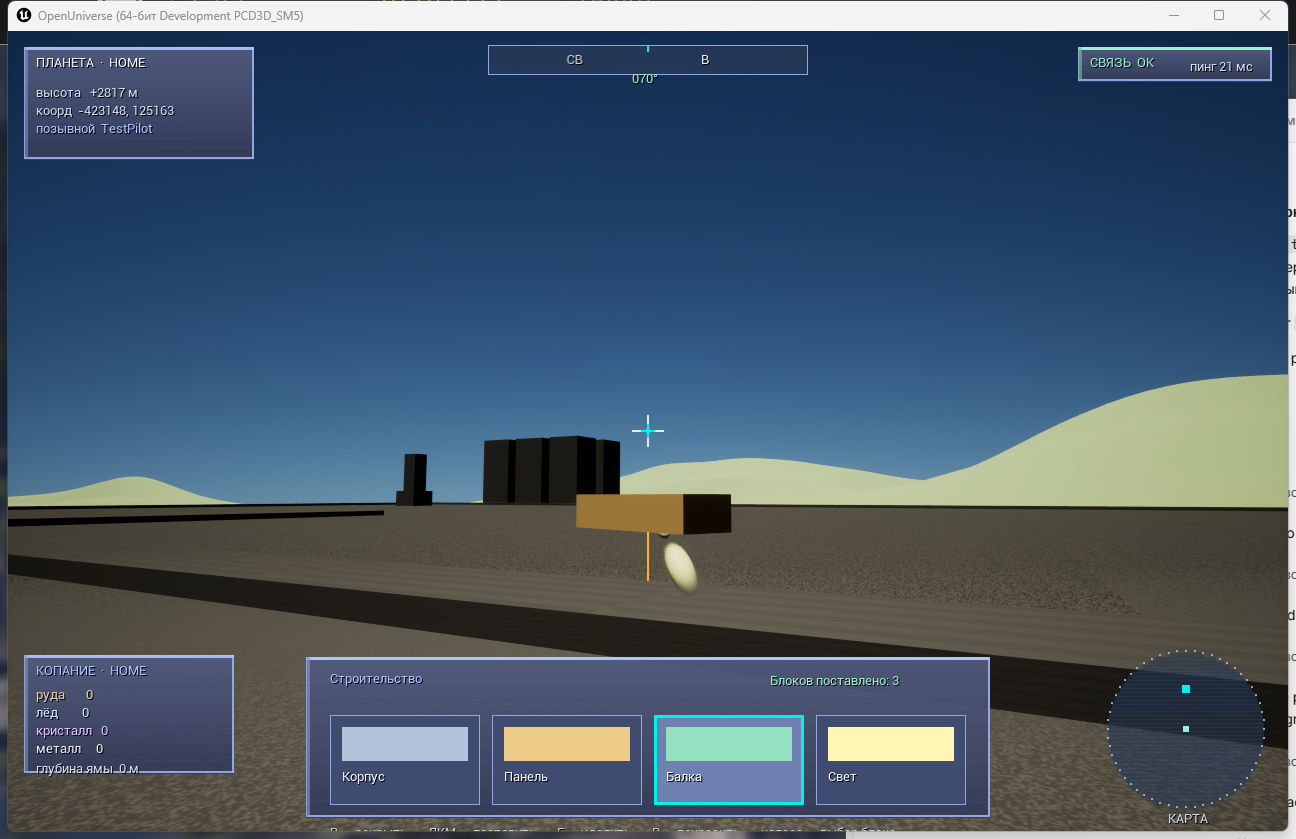
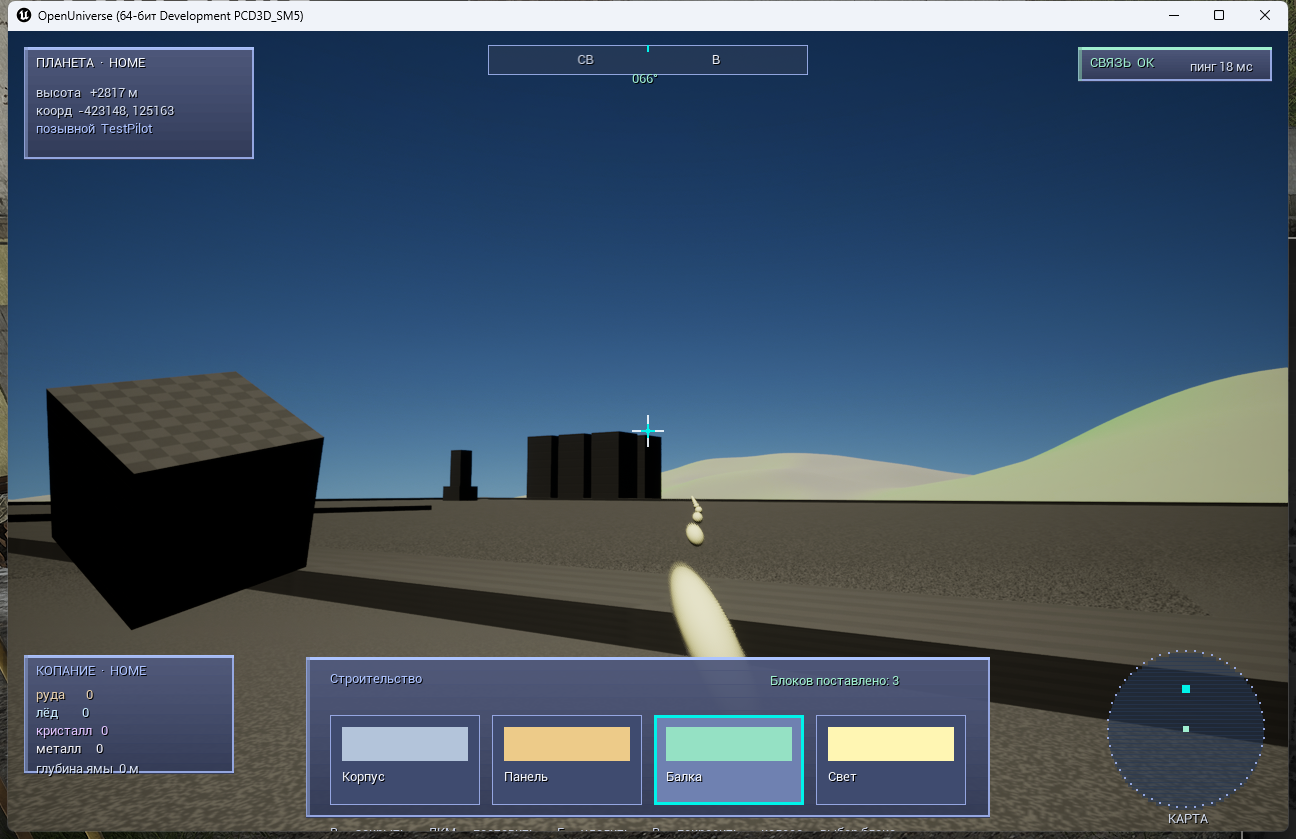
fix(client): build blocks anchored to player (visible in UE); base staircases; Earth-like terrain colours + slope rock

diff --git a/client/Source/OpenUniverse/OUCharacterPawn.cpp b/client/Source/OpenUniverse/OUCharacterPawn.cpp
@@ -283,6 +283,20 @@ void AOUCharacterPawn::BeginPlay()
 		LookYaw = FMath::Atan2(-T2.Y, -T2.X);
 	}
 	PlaceAt(CharPos, LookYaw);
+	// Якорь сетки строительства — в нескольких метрах ПЕРЕД точкой появления
+	// (после привязки к поверхности). Точка детерминирована (её же видит любой
+	// клиент), поэтому один серверный воксель кладётся в одно место у всех.
+	{
+		const FVector Spawn = GetActorLocation();
+		const FVector UpS = Spawn.GetSafeNormal();
+		FVector FwdS = FVector::VectorPlaneProject(FVector(1.f, 0.f, 0.f), UpS).GetSafeNormal();
+		if (FwdS.IsNearlyZero())
+		{
+			FwdS = FVector::VectorPlaneProject(FVector::ForwardVector, UpS).GetSafeNormal();
+		}
+		// +5 вокселей вперёд (7.5 м) — стройка начинается перед игроком, а не в ногах.
+		BuildAnchorUE = Spawn + FwdS * 750.f;
+	}
 	// Смотрим чуть вверх: в кадр попадают и земля, и небо с облаками.
 	ViewPitch = 0.10f;
 	// Диагностика: `-OULookDown` смотрит вниз — видно рельеф у ног.
@@ -635,24 +649,21 @@ bool AOUCharacterPawn::TraceBuildTarget(FIntVector& OutCoord, FVector& OutHit, F
 
 FIntVector AOUCharacterPawn::WorldToVoxel(const FVector& WorldPos) const
 {
-	// Обратное к VoxelWorld: мировая точка → координата сетки.
+	// Обратное к VoxelWorld: мировая точка → координата сетки (общий якорь).
 	const double VoxelCm = 150.0;
-	const FVector BaseUE = AOUVoxelPlanet::HomeSpawn(2.0f);
-	const FVector UpUE = BaseUE.GetSafeNormal();
+	const FVector AnchorUE = BuildAnchorUE;
+	const FVector UpUE = AnchorUE.GetSafeNormal();
 	FVector FwdUE = FVector::VectorPlaneProject(FVector(1.f, 0.f, 0.f), UpUE).GetSafeNormal();
 	if (FwdUE.IsNearlyZero())
 	{
 		FwdUE = FVector::VectorPlaneProject(FVector::ForwardVector, UpUE).GetSafeNormal();
 	}
 	const FVector RightUE = FVector::CrossProduct(UpUE, FwdUE).GetSafeNormal();
-	const FVector CharUE = BaseUE + FwdUE * 2200.f;
-	const FVector AnchorUE = CharUE + FwdUE * (6.0 * VoxelCm);
 
 	const FVector Rel = WorldPos - AnchorUE;
 	const double FX = FVector::DotProduct(Rel, FwdUE) / VoxelCm;
 	const double FY = (FVector::DotProduct(Rel, UpUE) - VoxelCm * 0.5) / VoxelCm;
 	const double FZ = FVector::DotProduct(Rel, RightUE) / VoxelCm;
-	// Округляем к ближайшей ячейке (допуск — половина шага).
 	return FIntVector(
 		FMath::RoundToInt(FX),
 		FMath::RoundToInt(FY),
@@ -702,22 +713,17 @@ void AOUCharacterPawn::OnBuildPaint() { PaintBuildBlock(); }
 
 FVector AOUCharacterPawn::VoxelWorld(const FVector& ServerCoord) const
 {
-	// ВАЖНО: базис считаем в ОСЯХ UE (как и «вперёд» персонажа), иначе сетка
-	// окажется повёрнутой относительно игрока: серверные оси (y — вверх) и
-	// UE-оси (z — вверх) не совпадают, и проекция «мирового +X» даёт разное.
+	// Мировая точка вокселя сетки: общий (детерминированный) якорь + координаты.
+	// Оси — в мировых осях UE (z — вверх). Базис якоря — от направления «вверх».
 	const double VoxelCm = 150.0;   // 1.5 м на воксель в см UE
-	const FVector BaseUE = AOUVoxelPlanet::HomeSpawn(2.0f);   // UE-см
-	const FVector UpUE = BaseUE.GetSafeNormal();
+	const FVector AnchorUE = BuildAnchorUE;
+	const FVector UpUE = AnchorUE.GetSafeNormal();
 	FVector FwdUE = FVector::VectorPlaneProject(FVector(1.f, 0.f, 0.f), UpUE).GetSafeNormal();
 	if (FwdUE.IsNearlyZero())
 	{
 		FwdUE = FVector::VectorPlaneProject(FVector::ForwardVector, UpUE).GetSafeNormal();
 	}
 	const FVector RightUE = FVector::CrossProduct(UpUE, FwdUE).GetSafeNormal();
-	// Якорь — на несколько метров перед персонажем: блоки ставим «перед собой»,
-	// а не в лицо (иначе первый блок закрывает обзор).
-	const FVector CharUE = BaseUE + FwdUE * 2200.f;
-	const FVector AnchorUE = CharUE + FwdUE * (6.0 * VoxelCm);
 	return AnchorUE
 		+ FwdUE * (ServerCoord.X * VoxelCm)
 		+ UpUE * (ServerCoord.Y * VoxelCm + VoxelCm * 0.5)
@@ -755,7 +761,9 @@ void AOUCharacterPawn::ApplyServerBuildEdits()
 					Block->ApplyLook();
 					ServerBlocks.Add(Key, Block);
 					BlockCoords.Add(Block, Key);
-					UE_LOG(LogOUChar, Log, TEXT("Авторитетный блок (%d,%d,%d) от сервера"), E.X, E.Y, E.Z);
+					UE_LOG(LogOUChar, Log, TEXT("Авторитетный блок (%d,%d,%d) от сервера: мир %s, игрок %s, дист %.0f см"),
+						E.X, E.Y, E.Z, *Pos.ToCompactString(), *GetActorLocation().ToCompactString(),
+						FVector::Dist(Pos, GetActorLocation()));
 				}
 			}
 		}

diff --git a/client/Source/OpenUniverse/OUVoxelPlanet.cpp b/client/Source/OpenUniverse/OUVoxelPlanet.cpp
@@ -505,18 +505,43 @@ FLinearColor AOUVoxelPlanet::SurfaceColor(float Height) const
 	{
 		if (bWater)
 		{
-			return FLinearColor(0.03f, 0.12f, 0.42f); // океан
+			// Океан: от бирюзового на мелководье к тёмно-синему в глубине.
+			return FLinearColor(0.05f, 0.20f, 0.45f);
 		}
-		const FLinearColor Beach(0.80f, 0.72f, 0.45f);
-		const FLinearColor Grass(0.13f, 0.40f, 0.13f);
-		const FLinearColor Snow(0.95f, 0.96f, 0.99f);
-		if (T < 0.35f)
-		{
-			return FLinearColor::LerpUsingHSV(Beach, Grass, T / 0.35f);
-		}
-		return FLinearColor::LerpUsingHSV(Grass, Snow, (T - 0.35f) / 0.65f);
+		// Землеподобные зоны по высоте: песок → луг → трава → лес → скалы → снег.
+		const FLinearColor Sand(0.82f, 0.74f, 0.50f);
+		const FLinearColor Meadow(0.42f, 0.58f, 0.24f);
+		const FLinearColor Grass(0.20f, 0.45f, 0.16f);
+		const FLinearColor Forest(0.12f, 0.32f, 0.12f);
+		const FLinearColor Rock(0.42f, 0.40f, 0.36f);
+		const FLinearColor Snow(0.97f, 0.98f, 1.00f);
+		if (T < 0.06f) { return FLinearColor::LerpUsingHSV(Sand, Meadow, T / 0.06f); }
+		if (T < 0.30f) { return FLinearColor::LerpUsingHSV(Meadow, Grass, (T - 0.06f) / 0.24f); }
+		if (T < 0.55f) { return FLinearColor::LerpUsingHSV(Grass, Forest, (T - 0.30f) / 0.25f); }
+		if (T < 0.78f) { return FLinearColor::LerpUsingHSV(Forest, Rock, (T - 0.55f) / 0.23f); }
+		return FLinearColor::LerpUsingHSV(Rock, Snow, (T - 0.78f) / 0.22f);
 	}
 	}
+}
+
+FLinearColor AOUVoxelPlanet::SurfaceColorSlope(float Height, const FVector& Normal) const
+{
+	// База — по высоте. Плюс «каменистость» на крутых склонах: там трава не
+	// держится, проступает камень. Это делает рельеф похожим на земной.
+	FLinearColor C = SurfaceColor(Height);
+	if (PlanetType != EOUPlanetType::Terran || Height <= 0.f)
+	{
+		return C;
+	}
+	const FVector Up = (Normal.IsNearlyZero() ? FVector::UpVector : Normal.GetSafeNormal());
+	const float Steep = FMath::Clamp(1.f - Up.Z, 0.f, 1.f);   // 0 ровно, ↑ круче
+	const float RockK = FMath::Clamp((Steep - 0.18f) / 0.42f, 0.f, 1.f);
+	if (RockK <= 0.f)
+	{
+		return C;
+	}
+	const FLinearColor Rock(0.40f, 0.37f, 0.33f);
+	return FLinearColor::LerpUsingHSV(C, Rock, RockK * 0.8f);
 }
 
 float AOUVoxelPlanet::LocalDetailFade(float DistCm) const
@@ -571,7 +596,7 @@ FVector AOUVoxelPlanet::SmoothSurfaceNormal(const FVector& DirUE, int32 Detail) 
 
 FLinearColor AOUVoxelPlanet::ShadedVertexColor(float Height, const FVector& SmoothNormal) const
 {
-	FLinearColor Base = SurfaceColor(Height);
+	FLinearColor Base = SurfaceColorSlope(Height, SmoothNormal);
 	// Вода — гладкая и блестящая: ровный цвет без резких теней рельефа.
 	if (Height <= 0.f)
 	{

diff --git a/client/Source/OpenUniverse/OUSurfaceBase.cpp b/client/Source/OpenUniverse/OUSurfaceBase.cpp
@@ -262,6 +262,41 @@ void AOUSurfaceBase::BuildBase()
 		AddOnDeck(BX, BY, FVector(500, 500, 500.f), Cyan, TEXT("BigLight"));
 	}
 
+	// --- Лестницы на площадку (твёрдые ступени) ---
+	// С каждой из четырёх сторон — короткая лестница из твёрдых блоков, чтобы на
+	// ровную площадку можно было подняться ступенями (а не только по террасам по
+	// краю). Ступени — твёрдые: сквозь них не пройти, но по ним поднимаешься.
+	{
+		const float StepW = 600.f;    // ширина ступени
+		const float StepD = 260.f;    // глубина (вылет) ступени
+		const float StepH = 60.f;     // высота ступени
+		const float Edge = PadR + StepD * 0.5f;
+		// Уровень земли у края площадки и уровень пола.
+		auto Stairs = [&](float DirX, float DirY)
+		{
+			// Вдоль выбранной оси — от края наружу; ступени вниз до земли.
+			const float G0 = GroundZ(DirX * Edge, DirY * Edge);
+			const float TopGap = DeckTop - G0;                 // перепад от пола до земли
+			const int32 N = FMath::Clamp(FMath::CeilToInt(TopGap / StepH), 1, 12);
+			for (int32 I = 0; I < N; ++I)
+			{
+				// I=0 — верхняя ступень (у края поля), дальше наружу и ниже.
+				const float Out = Edge + I * StepD;
+				const float CX = DirX * Out;
+				const float CY = DirY * Out;
+				const float Top = DeckTop - I * StepH;         // верх ступени
+				const float Bottom = Top - 400.f;              // фундамент вниз
+				AddBlock(FVector(CX, CY, (Top + Bottom) * 0.5f),
+					FVector(DirX != 0.f ? StepD : StepW, DirY != 0.f ? StepD : StepW, Top - Bottom),
+					Steel, FString::Printf(TEXT("Stair_%d_%d"), (int32)DirX, I), /*bSolid=*/true);
+			}
+		};
+		Stairs(1.f, 0.f);    // восточная
+		Stairs(-1.f, 0.f);   // западная
+		Stairs(0.f, 1.f);    // северная
+		Stairs(0.f, -1.f);   // южная
+	}
+
 	UE_LOG(LogOUBase, Log, TEXT("Комплекс построен: поле %.0f м, %d элементов"), PadR * 2.f / 100.f,
 		GetComponents().Num());
 }

diff --git a/client/Source/OpenUniverse/OUCharacterPawn.h b/client/Source/OpenUniverse/OUCharacterPawn.h
@@ -252,6 +252,13 @@ protected:
 	FIntVector WorldToVoxel(const FVector& WorldPos) const;
 
 	/**
+	 * Общий якорь мировой сетки строительства (детерминированная точка появления
+	 * персонажа). Задаётся в BeginPlay; по нему все клиенты кладут один серверный
+	 * воксель в одно и то же место.
+	 */
+	FVector BuildAnchorUE = FVector::ZeroVector;
+
+	/**
 	 * Мировое направление → сдвиг на соседнюю ячейку сетки по доминирующей оси.
 	 * Нужно, чтобы ставить блок в грань, на которую смотрит игрок.
 	 */

diff --git a/client/Source/OpenUniverse/OUVoxelPlanet.h b/client/Source/OpenUniverse/OUVoxelPlanet.h
@@ -349,6 +349,9 @@ protected:
 	/** Цвет поверхности по высоте и типу планеты. */
 	FLinearColor SurfaceColor(float Height) const;
 
+	/** Цвет поверхности с учётом наклона (землеподобный: камень на склонах). */
+	FLinearColor SurfaceColorSlope(float Height, const FVector& Normal) const;
+
 	/**
 	 * Цвет вершины с запечённым простым освещением.
 	 *
